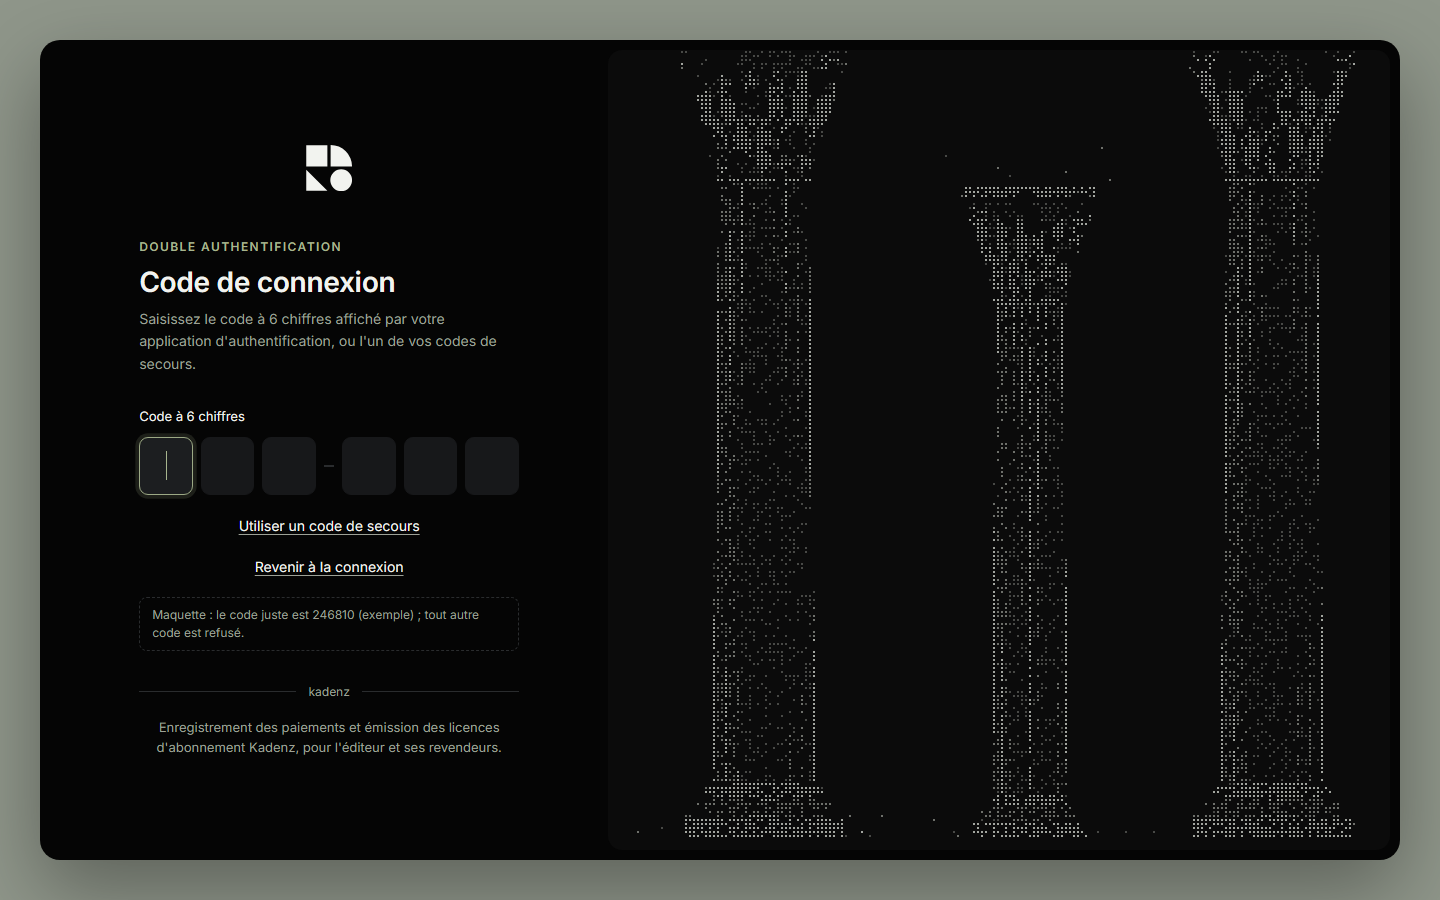
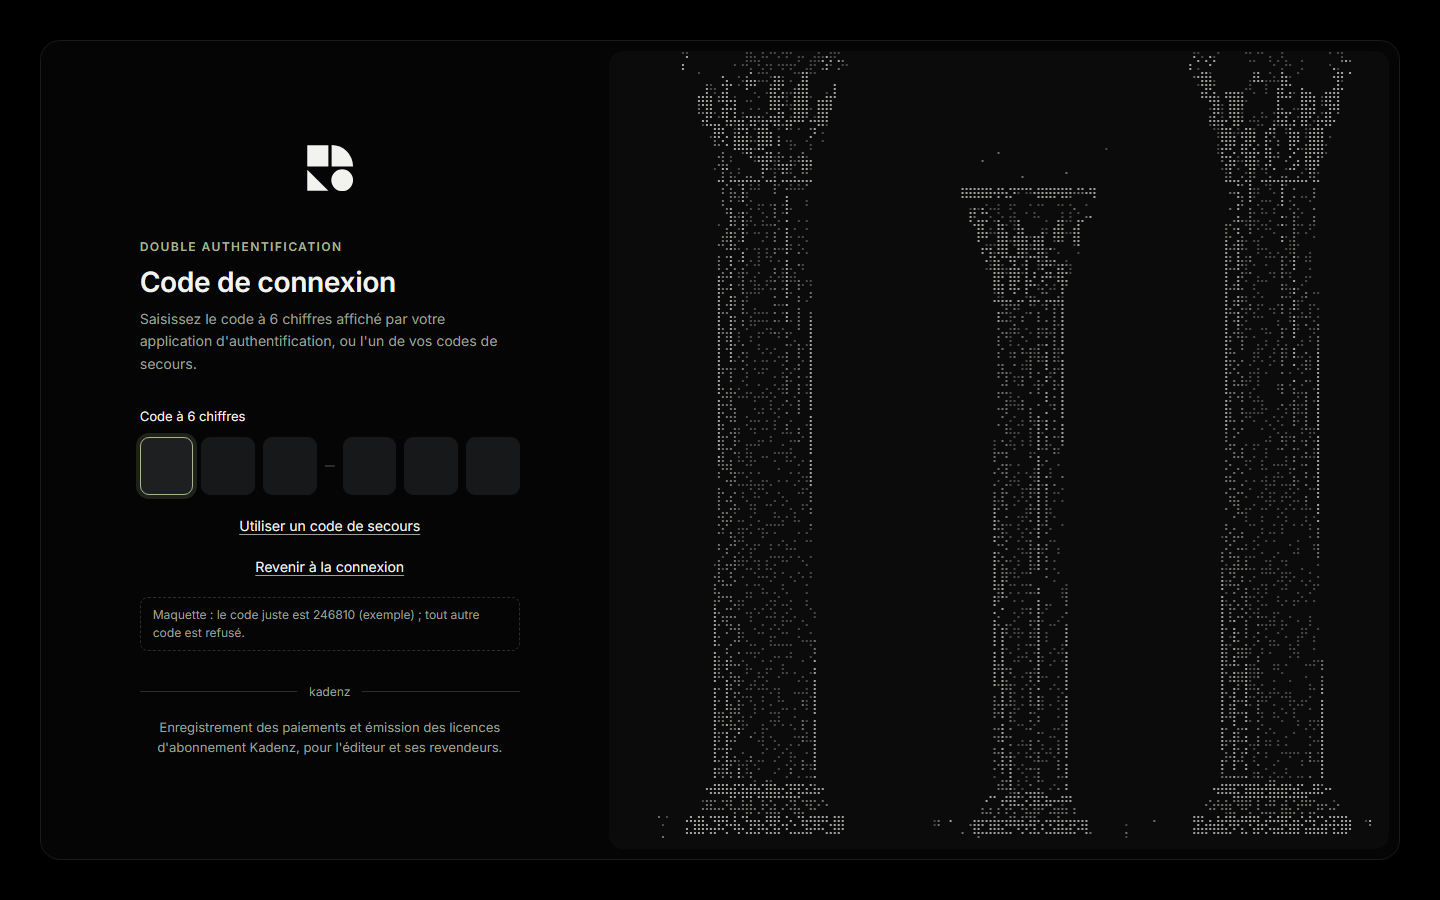
Marque : colonnes fixes et fond tout noir pour la connexion aux colonnes

diff --git a/docs/marque/propositions-2026-11-19-portail/piliers.js b/docs/marque/propositions-2026-11-19-portail/piliers.js
@@ -2,12 +2,12 @@
 // noir (proposition du 2026-11-19, kadenz-e6, d'après une référence de
 // l'utilisateur). Trois colonnes en ruine, dessinées en niveaux de gris puis
 // tramées : un point par case de la grille, gardé selon la clarté du dessin.
-// La souris écarte les points, qui reviennent doucement ; un réglage de la
-// maquette fige les colonnes.
+// Colonnes fixes (choix de l'utilisateur du 2026-11-19) : dessinées une
+// fois, et de nouveau quand le panneau change de taille. L'ancienne réaction
+// à la souris reste disponible par ?souris-active.
 //
-// Paramètres de l'adresse : ?capture (sans réglage, points posés d'emblée),
-// ?souris=0.5,0.5 (souris figée, en fraction du panneau), ?fixe (colonnes
-// figées dès l'ouverture).
+// Paramètres de l'adresse : ?capture (sans réglage de maquette),
+// ?souris-active (les points s'écartent au passage de la souris).
 
 (function () {
   "use strict";
@@ -21,7 +21,7 @@
   const parametres = new URLSearchParams(window.location.search);
   const capture = parametres.has("capture");
   const reduit = window.matchMedia("(prefers-reduced-motion: reduce)").matches;
-  let reactif = !parametres.has("fixe");
+  const reactif = parametres.has("souris-active");
   if (capture) {
     document.body.classList.add("capture");
   }
@@ -230,6 +230,9 @@
     toile.width = Math.round(largeur * ratio);
     toile.height = Math.round(hauteur * ratio);
     placer();
+    if (!reactif) {
+      image();
+    }
   }
 
   function image() {
@@ -258,27 +261,26 @@
       p.y += p.vy;
       parTeinte[p.teinte].push(p);
     }
+    if (!actif) {
+      for (const p of points) {
+        p.x = p.hx;
+        p.y = p.hy;
+      }
+    }
     for (let i = 0; i < 3; i += 1) {
       ctx.fillStyle = TEINTES[i];
       for (const p of parTeinte[i]) {
         ctx.fillRect(p.x - TAILLE / 2, p.y - TAILLE / 2, TAILLE, TAILLE);
       }
     }
-    window.requestAnimationFrame(image);
+    if (reactif) {
+      window.requestAnimationFrame(image);
+    }
   }
 
-  // ----- Souris et réglage -----
+  // ----- Souris (seulement avec ?souris-active) -----
 
-  const figee = parametres.get("souris");
-  if (figee) {
-    const [fx, fy] = figee.split(",").map(Number);
-    const fixer = function () {
-      souris.x = fx * largeur;
-      souris.y = fy * hauteur;
-    };
-    window.setTimeout(fixer, 0);
-    window.addEventListener("resize", fixer);
-  } else {
+  if (reactif) {
     panneau.addEventListener("pointermove", function (e) {
       const boite = panneau.getBoundingClientRect();
       souris.x = e.clientX - boite.left;
@@ -290,26 +292,13 @@
     });
   }
 
-  const bouton = document.getElementById("reglage-souris");
-  function marquer() {
-    if (bouton) {
-      bouton.setAttribute("aria-pressed", reactif ? "true" : "false");
-      bouton.textContent = reactif ? "Colonnes : réagissent à la souris" : "Colonnes : figées";
-    }
-  }
-  if (bouton) {
-    bouton.addEventListener("click", function () {
-      reactif = !reactif;
-      marquer();
-    });
-  }
-  marquer();
-
   dimensionner();
   if (window.ResizeObserver) {
     new ResizeObserver(dimensionner).observe(panneau);
   } else {
     window.addEventListener("resize", dimensionner);
   }
-  window.requestAnimationFrame(image);
+  if (reactif) {
+    window.requestAnimationFrame(image);
+  }
 })();

diff --git a/docs/marque/propositions-2026-11-19-portail/piliers.css b/docs/marque/propositions-2026-11-19-portail/piliers.css
@@ -5,8 +5,8 @@
    remise à zéro). Aucun style en ligne. */
 
 :root {
-  --pl-fond: #8F968A;        /* sauge grisé, autour du cadre */
-  --pl-cadre: #050505;       /* noir du cadre */
+  --pl-fond: #000000;        /* noir, autour du cadre */
+  --pl-cadre: #050505;       /* noir du cadre, à peine détaché du fond */
   --pl-panneau: #0B0B0B;     /* noir du panneau des colonnes */
   --pl-champ: #17181A;       /* champ plein */
   --pl-champ-survol: #1D1F21;
@@ -36,8 +36,8 @@ body.piliers {
   margin: 0 auto;
   padding: 10px;
   background: var(--pl-cadre);
+  border: 1px solid #1A1A1A;
   border-radius: 20px;
-  box-shadow: 0 30px 80px rgba(0, 0, 0, 0.35);
 }
 
 .piliers .colonne {

diff --git a/docs/marque/propositions-2026-11-19-portail/connexion-piliers-code.html b/docs/marque/propositions-2026-11-19-portail/connexion-piliers-code.html
@@ -50,6 +50,5 @@
 </main>
 <div class="illustration" aria-hidden="true"><canvas id="piliers"></canvas></div>
 </div>
-<div class="reglage-maquette"><button type="button" id="reglage-souris" aria-pressed="true">Colonnes : réagissent à la souris</button></div>
 </body>
 </html>

diff --git a/docs/marque/propositions-2026-11-19-portail/connexion-piliers.html b/docs/marque/propositions-2026-11-19-portail/connexion-piliers.html
@@ -33,6 +33,5 @@
 </main>
 <div class="illustration" aria-hidden="true"><canvas id="piliers"></canvas></div>
 </div>
-<div class="reglage-maquette"><button type="button" id="reglage-souris" aria-pressed="true">Colonnes : réagissent à la souris</button></div>
 </body>
 </html>

diff --git a/.claude/journal.md b/.claude/journal.md
@@ -918,3 +918,5 @@
 [2026-11-19 19:42:00] Suggestion - Connexion A retenue par l'utilisateur, reprise en particules (kadenz-e6) : points que la souris écarte et qui reviennent doucement en place, champs et cadre arrondis d'après sa référence, sept illustrations au choix (Portails, Parthénon, Colisée, Panthéon, Aqueduc, Chouette d'Athéna, Amphore) ; page du code en six cases avec validation automatique, vert puis page suivante, rouge et avis si le code est faux, code de secours gardé. Maquette avec script : le portail en service n'en a aucun (CSP), à décider avant de la porter.
 [2026-11-19 19:45:25] Suivi - Lots B et C de l'audit en service sur le Dell : essai préalable sur une copie fraîche de la base de production (v9 vers v11, secret TOTP en c1:, integrity_check ok, journal-verifier --archive intact, archivage à sceau faux refusé sans changement) ; images 7a05ecf1f9fc, scripts de 2630ab2 (kadenz-sauvegarde, kadenz-compose), KADENZ_JOURNAL_JOURS vide en attendant la décision de l'utilisateur ; sauvegarde propre, console publique en 200. Connexion A en particules (c88d17d) livrée par kadenz-e6 à la demande directe de l'utilisateur ; le script qu'elle demande reste à trancher avec lui.
 [2026-11-19 19:47:57] Suggestion - Connexion « piliers » (kadenz-e6) d'après deux références de l'utilisateur : trois grandes colonnes corinthiennes en ruine, en points sur fond noir, combinaison noir et vert sauge, champs pleins arrondis, bouton sauge ; souris active par défaut, réglage de maquette pour figer les colonnes (sa consigne se lisait des deux façons) ; page du code en six cases dans le même style. Suivi : lots B et C en service sur le Dell (kadenz-dd, images 7a05ecf, scripts 2630ab2, KADENZ_JOURNAL_JOURS vide).
+[2026-11-19 19:48:16] Suivi - Design : connexion « piliers » (ebb200f, colonnes corinthiennes en points, noir et vert sauge) livrée par kadenz-e6 sur demande directe de l'utilisateur ; aucune intégration dans le portail sans son accord.
+[2026-11-19 20:13:37] Instruction - Connexion « piliers » : colonnes fixes, sans réaction à la souris, et fond tout noir (choix de l'utilisateur) ; réaction gardée seulement par ?souris-active, capture de la souris retirée.
